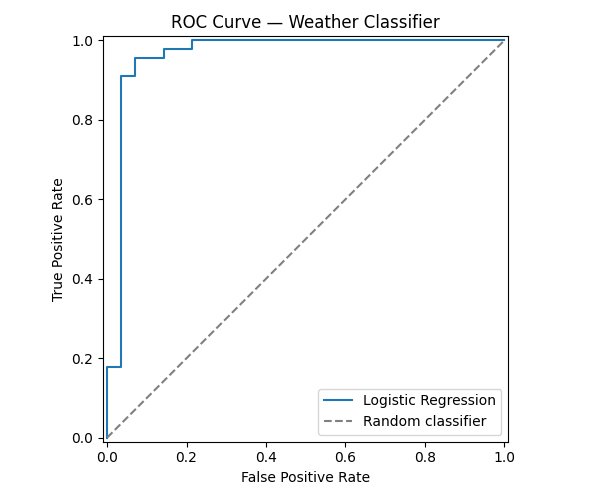
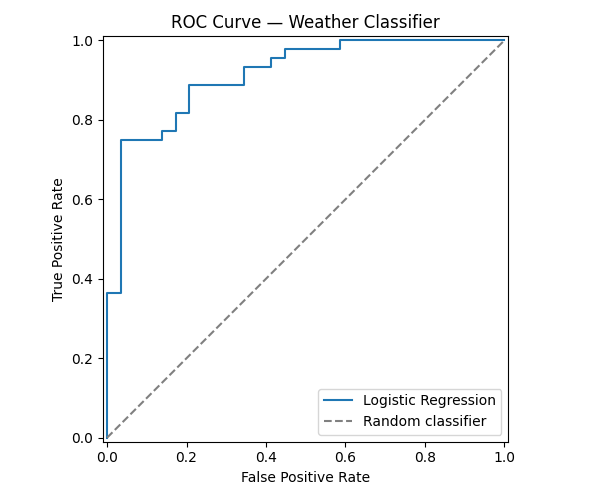
extended comments and changed an error

diff --git a/assignment_04/train_weather_classifier.py b/assignment_04/train_weather_classifier.py
@@ -38,7 +38,7 @@ response.raise_for_status()
 df = pd.DataFrame(response.json()["daily"])
 df["date"] = pd.to_datetime(df["time"])
 df = df.drop("time", axis=1)
-print(df.describe())
+df.info()
 
 ## --- Step 2: Engineer Labels --- ##
 def label_running_day(row):
@@ -53,6 +53,7 @@ df["good_for_running"] = df.apply(label_running_day, axis=1)
 
 print(df["good_for_running"].value_counts())
 print(f"\nFraction of good days: {df['good_for_running'].mean():.2f}")
+print(df.describe())
 # 61% of the days here (San Francisco) are good for 
 # running. It's a little lower than I expected given 
 # that it's never too hot or too cold, and rain is 
@@ -144,14 +145,14 @@ metadata = {
     "latitude": 37.7749,
     "longitude": -122.4194,
     "label_thresholds": {
-        "temperature_2m_max": "7–29°C",
+        "temperature_2m_max": "7–26°C",
         "temperature_2m_min": ">= 0°C",
         "precipitation_sum":  "< 3.0 mm",
         "wind_speed_10m_max": "< 30 km/h",
+        # Comment: Used the same label thresholds as above for consistency.
     },
 }
 
 with open('models/weather_classifier_metadata.json', 'w') as f:
     json.dump(metadata, f, indent=2)
-
 print("Model and metadata saved to models/")

diff --git a/assignment_04/predict_weather.py b/assignment_04/predict_weather.py
@@ -31,7 +31,7 @@ probs = clf.predict_proba(new_days)[:,1]
 for i, row in new_days.iterrows():
     pred_label = "good" if predict[i] == 1 else "skip"
     prob = probs[i]
-
+    print(f'Probability: {prob}')
     features_str = (
         f"Max Temp: {row['temperature_2m_max']}°C, "
         f"Min Temp: {row['temperature_2m_min']}°C, "
@@ -53,7 +53,11 @@ for i, row in new_days.iterrows():
 # makes it easier to use in multiple 
 # circumstances. It also keeps the model 
 # acccurate to the training data so it 
-# can't be swayed by predictions.
+# can't be swayed by predictions. If we 
+# ran weather predict first the code would 
+# not work given that it uses a model build 
+# in train_weather_classifier, therefor there 
+# would be no model to predict with.
 
 # To accurately predict the next days weather 
 # the model would need to be looking at weather 

diff --git a/assignment_04/warmup_04.py b/assignment_04/warmup_04.py
@@ -262,5 +262,5 @@ for i, sample in enumerate(new_samples, start=1):
 
 # I expected the all 0s row to predict 0, which is did. 
 # I was surprised by predict proba giving it decimal
-#  estimates as opposed to a 1 and 0, especially given 
+# estimates as opposed to a 1 and 0, especially given 
 # that the predict proba for other rows is integers.
